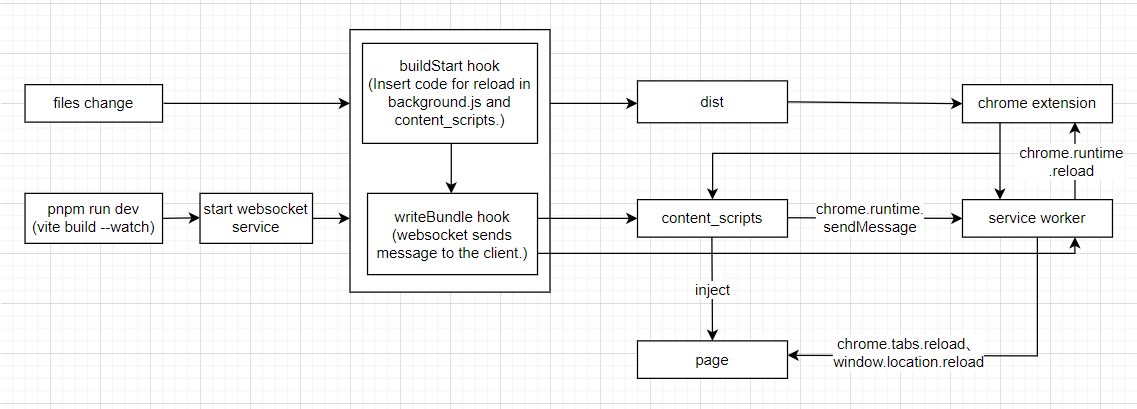
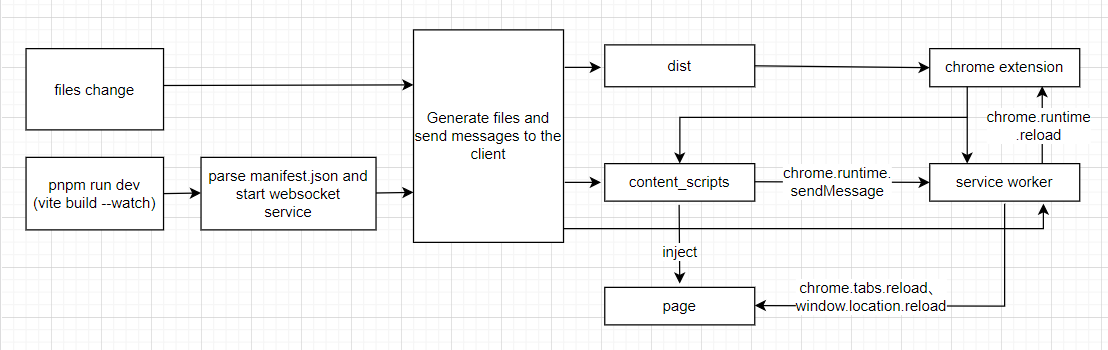
feat: chrome.scripting.executeScript supports references to *.ts

diff --git a/src/index.ts b/src/index.ts
@@ -1,7 +1,6 @@
 import type { Plugin, ResolvedConfig } from 'vite'
 import { WebSocketServer } from 'ws'
 import { resolve, dirname, extname, basename } from 'path'
-import { readFileSync } from 'fs'
 import { normalizePath } from './utils'
 import { ManifestProcessor } from './processors/manifest'
 
@@ -24,38 +23,41 @@ export default function crxHotReloadPlugin(
     )
   }
 
-  const srcDir = dirname(input)  
+  const srcDir = dirname(input)
   let socket: any
   let serviceWorkerPath: string | undefined
   let contentScriptPaths: string[] = []
   let manifestFullPath: string | undefined
-  let assetPaths: string[] = []
   let cssPaths: string[] = []
-  let htmlPaths : string[] = []
+  let htmlPaths: string[] = []
   let changedFilePath: string
   let manifestProcessor
 
   function takeManifestScriptsAsInput(config) {
     let rollupOptionsInput = config.build.rollupOptions.input
-    const  manifestAssetPaths =  manifestProcessor.getAssetPaths()
+    const manifestAssetPaths = manifestProcessor.getAssetPaths()
     contentScriptPaths = manifestAssetPaths.contentScriptPaths
-    assetPaths = manifestAssetPaths.assetPaths
     cssPaths = manifestAssetPaths.cssPaths
     serviceWorkerPath = manifestAssetPaths.serviceWorkerPath
     htmlPaths = manifestAssetPaths.htmlPaths
-    
+
     if (Array.isArray(rollupOptionsInput)) {
-      config.build.rollupOptions.input = [...rollupOptionsInput, ...htmlPaths, ...contentScriptPaths, serviceWorkerPath]
+      config.build.rollupOptions.input = [
+        ...rollupOptionsInput,
+        ...htmlPaths,
+        ...contentScriptPaths,
+        serviceWorkerPath
+      ]
     } else if (typeof rollupOptionsInput === 'object') {
       const entryRet = {}
-      const setEntry = (item)=>{
+      const setEntry = (item) => {
         const name = basename(item, extname(item))
         entryRet[name] = item
       }
-      if(serviceWorkerPath) {
+      if (serviceWorkerPath) {
         setEntry(serviceWorkerPath)
       }
-      [...htmlPaths, ...contentScriptPaths].forEach((item) => {
+      ;[...htmlPaths, ...contentScriptPaths].forEach((item) => {
         setEntry(item)
       })
       config.build.rollupOptions.input = {
@@ -70,7 +72,7 @@ export default function crxHotReloadPlugin(
       config.build.rollupOptions.output = {}
     }
     const entryFileNames = config.build.rollupOptions.output.entryFileNames
-    config.build.rollupOptions.output.entryFileNames = (assetInfo) => {      
+    config.build.rollupOptions.output.entryFileNames = (assetInfo) => {
       if (
         assetInfo.facadeModuleId &&
         /.(j|t)s$/.test(assetInfo.facadeModuleId)
@@ -123,17 +125,12 @@ export default function crxHotReloadPlugin(
     watchChange(id) {
       changedFilePath = normalizePath(id)
     },
-    transform(code, id) {      
-      let data = ''
-      if (serviceWorkerPath === id) {
-        data = `var PORT=${port};`
-        data += readFileSync(resolve(__dirname, 'background.js'), 'utf-8')
-      }
-      return data + code
+    transform(code, id) {
+      return manifestProcessor.transform(code, id)
     },
     buildStart() {
       manifestProcessor.emitManifest(this)
-      manifestProcessor.emitAssets(this, assetPaths)
+      manifestProcessor.emitAssets(this)
       manifestProcessor.emitContentScriptDev(this)
     },
     writeBundle() {

diff --git a/src/processors/manifest.ts b/src/processors/manifest.ts
@@ -90,6 +90,23 @@ export class ManifestProcessor {
     }
   }
 
+  public transform(code, id) {
+    let data = ''
+    if (this.serviceWorkerPath === id) {
+      data = `var PORT=${this.options.port};`
+      data += readFileSync(resolve(__dirname, 'background.js'), 'utf-8')
+    }
+    if (code.indexOf('chrome.scripting.executeScript') > 0) {
+      code = code.replace(
+        /(?<=chrome.scripting.executeScript\()[\s\S]*?(?=\))/gm,
+        function (fileStr) {
+          return replaceExtname(fileStr, '.ts', '.js')
+        }
+      )
+    }
+    return data + code
+  }
+
   //generate manifest.json
   public emitManifest(context) {
     let { input, viteConfig } = this.options
@@ -170,8 +187,8 @@ export class ManifestProcessor {
   }
 
   // icon & css
-  public emitAssets(context, paths) {
-    paths.forEach((path) => {
+  public emitAssets(context) {
+    this.assetPaths.forEach((path) => {
       const assetPath = resolve(this.srcDir, path)
       context.addWatchFile(assetPath)
       if (assetPath.endsWith('.less')) {

diff --git a/examples/vite-vue/src/popup/App.vue b/examples/vite-vue/src/popup/App.vue
@@ -6,17 +6,16 @@
 
 <script setup>
 import { onMounted } from 'vue'
-onMounted(()=>{
-  let oBtn = document.getElementById("btn");
-  oBtn.addEventListener("click", async () => {
-    let [tab] = await chrome.tabs.query({ active: true, currentWindow: true });
+onMounted(() => {
+  let oBtn = document.getElementById('btn')
+  oBtn.addEventListener('click', async () => {
+    let [tab] = await chrome.tabs.query({ active: true, currentWindow: true })
     chrome.scripting.executeScript({
       target: { tabId: tab.id },
-      files: ['js/content_scripts/content3.js'],
-    });
-  });
+      files: ['js/content_scripts/content3.ts']
+    })
+  })
 })
-
 </script>
 
 <style lang="less" scoped>

diff --git a/src/background.ts b/src/background.ts
@@ -1,7 +1,7 @@
 const ws = new WebSocket(`ws://localhost:${PORT}`)
 
 ws.onopen = function () {
-  console.log('[open] Connection established')
+  console.log('[webSocket] Connection established')
 }
 ws.onmessage = function (e) {
   console.log('Received Message: ' + e.data)
@@ -11,7 +11,7 @@ ws.onmessage = function (e) {
   }
 }
 ws.onclose = function () {
-  console.log('[close] Connection closed.')
+  console.log('[webSocket] Connection closed.')
 }
 
 chrome.runtime.onMessage.addListener((request, sender, sendResponse) => {

diff --git a/src/content.ts b/src/content.ts
@@ -1,7 +1,7 @@
 const ws = new WebSocket(`ws://localhost:${PORT}`)
 
 ws.onopen = function () {
-  console.log('[open] Connection established')
+  console.log('[webSocket] Connection established')
 }
 ws.onmessage = function (e) {
   console.log('Received Message: ' + e.data)
@@ -12,5 +12,5 @@ ws.onmessage = function (e) {
   }
 }
 ws.onclose = function () {
-  console.log('[close] Connection closed.')
+  console.log('[webSocket] Connection closed.')
 }
